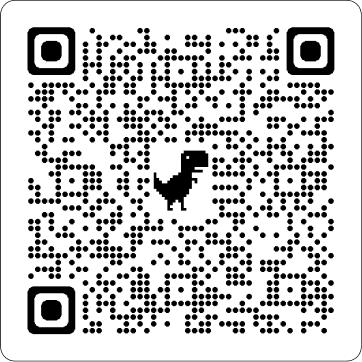
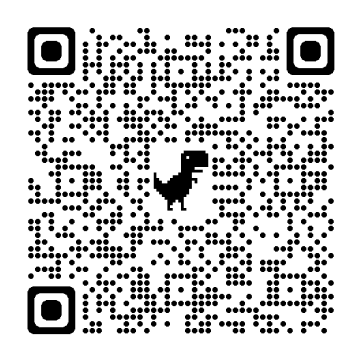
style: image style confuguaration

Changed region(s): [[0.0, 0.942, 1.0, 1.0], [0.942, 0.0, 1.0, 0.0608], [0.0, 0.0, 0.0304, 0.0608]]

diff --git a/src/pages/Tickets/Tickets.css b/src/pages/Tickets/Tickets.css
@@ -9,17 +9,10 @@
   margin-left: 25%;
 }
 
-/* qrcode_www.figma 1 
+.image-eventcard img {
+  width: 361px;
+  height: 361px;
+  border: 0.7px solid #000000;
+  border-radius: 15px;
+}
 
-box-sizing: border-box;
-
-position: absolute;
-width: 361.38px;
-height: 361.38px;
-left: 702.28px;
-top: 404px;
-
-background: url(qrcode_www.figma.png);
-border: 0.68184px solid #000000;
-border-radius: 14.7px;
-*/

diff --git a/src/pages/Tickets/Tickets.jsx b/src/pages/Tickets/Tickets.jsx
@@ -56,7 +56,7 @@ const Tickets = () => {
           location="Ca300"
         />
 
-        <div className="image-below-eventcard">
+        <div className="image-eventcard">
           <img src={Qrcode} alt="qrcode" />
         </div>
 
